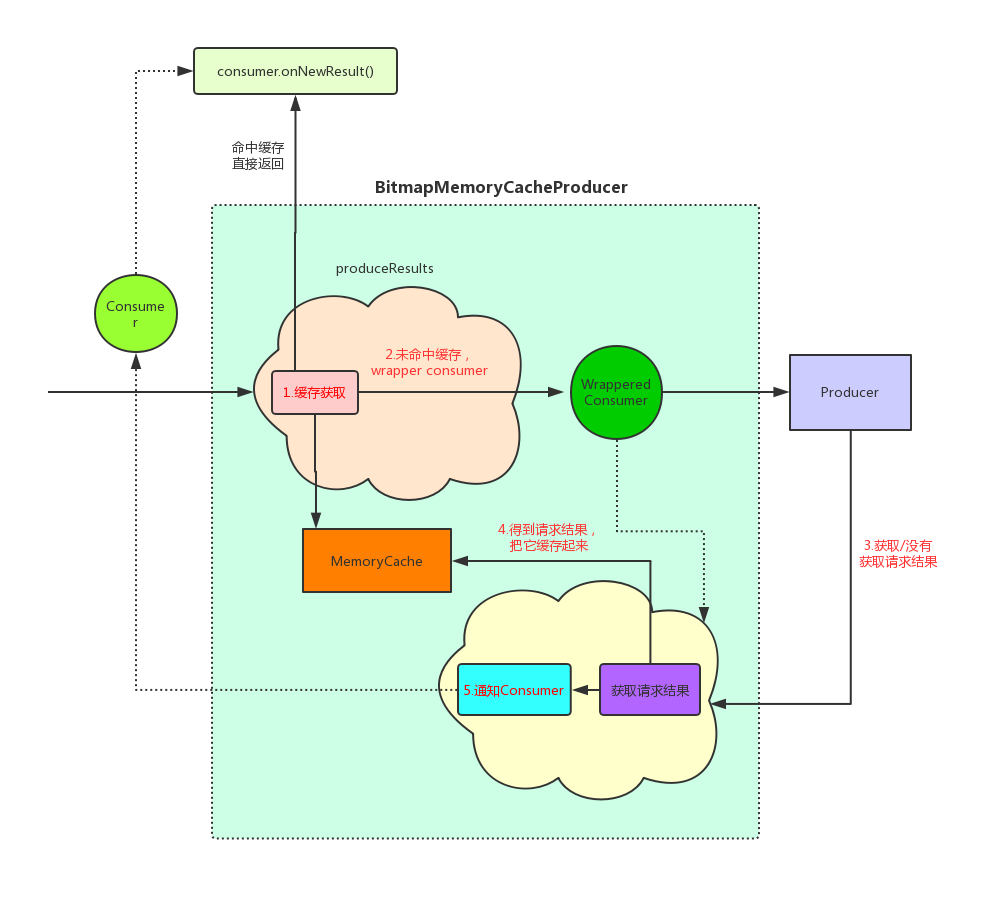
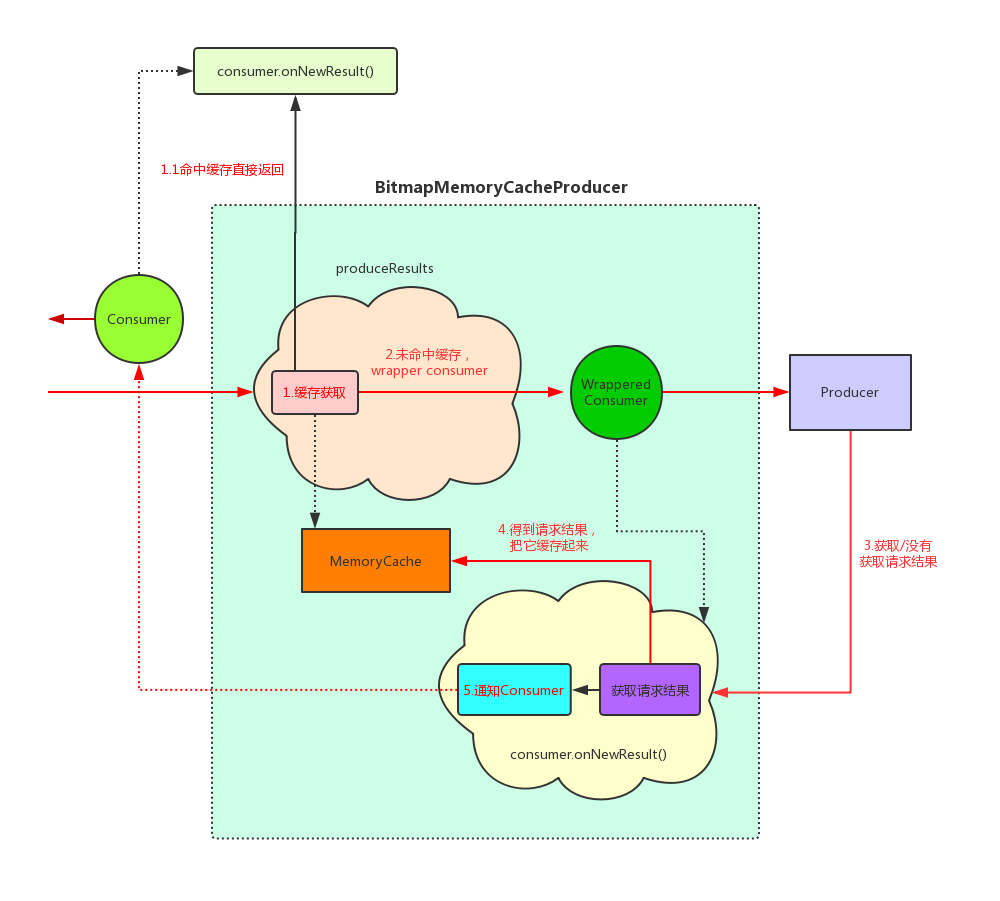
Fresco缓存架构分析 草稿

diff --git a/Fresco源码分析/Fresco缓存架构分析.md b/Fresco源码分析/Fresco缓存架构分析.md
@@ -4,25 +4,25 @@
 
 ## 引言
 
-我们先来回顾一下上一篇文章中的一幅图:
+先来回顾一下上一篇文章中的一幅图:
 
 ![](picture/NetworkFetchSequence.png)
 
 这张图描述了`Fresco`在第一次加载一张网络图片时所经历的过程，从图中可以看出涉及到缓存的`Producer`共有4个:`BitmapMemroyCacheGetProducer`、`BitmapMemoryCacheProducer`、`EncodedMemoryCacheProducer`和`DiskCacheWriteProducer`。`Fresco`在加载图片时会按照图中**绿色箭头**所示依次经过这四个`缓存Producer`，一旦在某个`Producer`得到图片请求结果，就会按照**蓝色箭头**所示把结果依次回调回来,这里我先简单介绍一下这4个`缓存Producer`的作用:
 
-1. `BitmapMemroyCacheGetProducer`:这个`Producer`会去内存缓存中检查有没命中，如果命中则返回图片请求结果。
-2. `BitmapMemoryCacheProducer`:这个`Producer`会监听其后面的`Producer`的`Result`，并把`Result(CloseableImage)`存入缓存。
-3. `EncodedMemoryCacheProducer`:它也是一个内存缓存，不过它缓存的是未解码的图片，即字节流。
-4. `DiskCacheWriteProducer`:顾名思义，它负责把图片缓存到磁盘，它缓存的也是未解码的图片。
+1. `BitmapMemroyCacheGetProducer`: 这个`Producer`会去内存缓存中检查有没命中缓存，如果命中则返回图片请求结果。
+2. `BitmapMemoryCacheProducer`: 这个`Producer`会监听其后面的`Producer`的`Result`，并把`Result(CloseableImage)`存入缓存。
+3. `EncodedMemoryCacheProducer`: 它也是一个内存缓存，不过它缓存的是未解码的图片，即图片原始字节。
+4. `DiskCacheWriteProducer`: 顾名思义，它负责把图片缓存到磁盘，它缓存的也是未解码的图片。
 
 
-## 解码图片与未解码图片
+### 解码图片与未解码图片
 
-在`Fresco`中，`CloseableImage`就是已解码的图片，而`EncodeImage`就是为解码的图片。
+在`Fresco`中可以简单的理解 :`CloseableImage`为解码的图片，而`EncodeImage`是未解码的图片。
 
-### CloseableImage
+#### CloseableImage
 
-`CloseableImage`是一个接口，我们最常接触到的它的实现是`CloseableStaticBitmap`:
+`CloseableImage`是一个接口，最常接触到的它的实现是`CloseableStaticBitmap`:
 
 >CloseableStaticBitmap.java
 ```
@@ -34,7 +34,7 @@ public class CloseableStaticBitmap extends CloseableBitmap {
 
 即可以把`CloseableStaticBitmap`理解为`Bitmap`的封装。
 
-### EncodeImage
+#### EncodeImage
 
 它内部其实是直接封装了`图片的字节/图片的文件字节流`:
 
@@ -42,21 +42,21 @@ public class CloseableStaticBitmap extends CloseableBitmap {
 ```
 public class EncodedImage implements Closeable {
     private final @Nullable CloseableReference<PooledByteBuffer> mPooledByteBufferRef;  //实际上未解码的图片的字节
-    private final @Nullable Supplier<FileInputStream> mInputStreamSupplier;  //直接缓存一个文件字节流
+    private final @Nullable Supplier<FileInputStream> mInputStreamSupplier;  //直接缓存一个文件字节流, 我猜测用于渐进式jpeg图片加载等场景
 }
 ```
 
+接下来，我们来仔细看一样上面所列的4个缓存:
+
 ## Bitmap内存缓存 : BitmapMemoryCacheProducer
 
-`BitmapMemroyCacheGetProducer`派生自`BitmapMemoryCacheProducer`,与`BitmapMemoryCacheProducer`的不同就是**只读不写**而已,比较简单，就不看了。
-
-`BitmapMemoryCacheProducer`的缓存逻辑很简单:
+`BitmapMemroyCacheGetProducer`派生自`BitmapMemoryCacheProducer`,与`BitmapMemoryCacheProducer`的不同就是**只读不写**而已, 比较简单就不看了, 不过`BitmapMemoryCacheProducer`的缓存逻辑很简单:
 
 >BitmapMemoryCacheProducer.java
 ```
 public class BitmapMemoryCacheProducer implements Producer<CloseableReference<CloseableImage>> {
 
-    private final MemoryCache<CacheKey, CloseableImage> mMemoryCache;
+    private final MemoryCache<CacheKey, CloseableImage> mMemoryCache; //图片缓存的实现
 
     @Override
     public void produceResults(Consumer<CloseableReference<CloseableImage>> consumer...){
@@ -94,14 +94,283 @@ public class BitmapMemoryCacheProducer implements Producer<CloseableReference<Cl
 }
 ```
 
-流程图如下(后面两个缓存的流程与它基本相同，因此对于缓存整体流程只画这一次):
+它的主要流程图如下(**后面两个缓存的流程与它基本相同，因此对于缓存整体流程只画这一次**):
 
 ![](picture/BitmapMemoryCacheProducer工作流.png)
 
-**图中红色的字体是正常网络加载图片的步骤**，这里我们来细看一下`MemoryCache`的实现:
+**图中红色箭头和字体是正常网络加载图片的步骤**，这里我们来细看一下`MemoryCache`的实现:
 
 ### 内存缓存的实现 : MemoryCache
 
-`MemoryCache`是一个接口，在这里它的对应实现是`CountingMemoryCache`，
+`MemoryCache`是一个接口，在这里它的对应实现是`CountingMemoryCache`, 看一下这个类的构造函数:
+
+>CountingMemoryCache.java
+```
+public class CountingMemoryCache<K, V> implements MemoryCache<K, V>, MemoryTrimmable {
+
+    //缓存的集合其实就是一个map，不过这个map使用 Lru 算法
+    final CountingLruMap<K, Entry<K, V>> mExclusiveEntries;  
+    final CountingLruMap<K, Entry<K, V>> mCachedEntries; 
+
+    public CountingMemoryCache(ValueDescriptor<V> valueDescriptor,CacheTrimStrategy cacheTrimStrategy,Supplier<MemoryCacheParams> memoryCacheParamsSupplier) {
+        mValueDescriptor = valueDescriptor;// 用来估算当前缓存实体的大小
+        mExclusiveEntries = new CountingLruMap<>(wrapValueDescriptor(valueDescriptor)); // 主要存放没有被引用的对象，它的所有元素一定在 mCachedEntries 集合中存在
+        mCachedEntries = new CountingLruMap<>(wrapValueDescriptor(valueDescriptor));  // 主要缓存集合
+        mCacheTrimStrategy = cacheTrimStrategy; // 当 trim 缓存的如何trim (简单点说就是trim ratio)
+        mMemoryCacheParams = mMemoryCacheParamsSupplier.get();  //  通过 ImagePipelineConfig 来配置的缓存参数
+    }
+    ...
+}
+```
+
+通过构造函数可以知道`CountingMemoryCache`一共含有两个缓存集合 : `mCachedEntries`是用来存放所有缓存对象的集合，而`mExclusiveEntries`是用来存放当前没有被引用的对象，在`trim`缓存是，主要是`trim`掉这个缓存集合的中的对象。`CountingMemoryCache`的缓存逻辑也是主要围绕这两个集合展开的。接下来看一下``的`cache`和`get`的方法，来简单理解它的缓存逻辑。
+
+#### CountingMemoryCache.cache()
+
+```
+public @Nullable CloseableReference<V> cache(K key, CloseableReference<V> valueRef, EntryStateObserver<K> observer) {
+
+    Entry<K, V> oldExclusive;
+    CloseableReference<V> oldRefToClose = null;
+    CloseableReference<V> clientRef = null;
+
+    synchronized (this) {
+        oldExclusive = mExclusiveEntries.remove(key);   //从没有引用的缓存集合中清除
+        Entry<K, V> oldEntry = mCachedEntries.remove(key); //从主缓存集合中移除
+        if (oldEntry != null) {
+            makeOrphan(oldEntry);
+            oldRefToClose = referenceToClose(oldEntry);
+        }
+
+        if (canCacheNewValue(valueRef.get())) {  //会判断是否到达了当前缓存的最大值
+            Entry<K, V> newEntry = Entry.of(key, valueRef, observer); // 构造一个缓存实体(Entry)
+            mCachedEntries.put(key, newEntry);   //缓存
+            clientRef = newClientReference(newEntry);
+        }
+    }
+
+    CloseableReference.closeSafely(oldRefToClose);    //可能会调用到 release 方法，
+    ...
+
+    return clientRef;
+}
+```
+
+上面代码我做了比较详细的注释。简单的讲就是**把这个对象放入到`mCachedEntries`集合中，如果原来就已经缓存了这个对象，那么就要把它先从`mCachedEntries`和`mExclusiveEntries`集合中移除。**
+
+##### Fresco的默认内存缓存大小
+
+`canCacheNewValue`用来判断当前缓存是否已经达到了最大值，那`Fresco`内存缓存的最大值是多少呢？我们可以通过`ImagePipelineConfig`来配置，如果没有配置的话默认配置是:`DefaultBitmapMemoryCacheParamsSupplier`:
+
+>DefaultBitmapMemoryCacheParamsSupplier.java
+```
+public class DefaultBitmapMemoryCacheParamsSupplier implements Supplier<MemoryCacheParams> {
+    ...
+
+    private int getMaxCacheSize() {
+        final int maxMemory = Math.min(mActivityManager.getMemoryClass() * ByteConstants.MB, Integer.MAX_VALUE);
+        if (maxMemory < 32 * ByteConstants.MB) {
+            return 4 * ByteConstants.MB;
+        } else if (maxMemory < 64 * ByteConstants.MB) {
+            return 6 * ByteConstants.MB;
+        } else {
+            if (Build.VERSION.SDK_INT < Build.VERSION_CODES.HONEYCOMB) {
+                return 8 * ByteConstants.MB;
+            } else {
+                return maxMemory / 4;
+            }
+        }
+    }
+}
+```
+
+即`Fresco`的默认缓存大小是根据当前应用的运行内存来决定的，对于应用运行内存达到64MB以上的手机，`Fresco`的默认缓存大小是`maxMemory / 4`
+
+#### CountingMemoryCache.get()
+
+缓存获取的逻辑也很简单:
+
+>CountingMemoryCache.java
+```
+    public CloseableReference<V> get(final K key) {
+    Entry<K, V> oldExclusive;
+        CloseableReference<V> clientRef = null;
+        synchronized (this) {
+            oldExclusive = mExclusiveEntries.remove(key);
+            Entry<K, V> entry = mCachedEntries.get(key);
+            if (entry != null) {
+                clientRef = newClientReference(entry);
+            }
+        }
+        maybeNotifyExclusiveEntryRemoval(oldExclusive);
+        maybeUpdateCacheParams();
+        maybeEvictEntries();
+        return clientRef;
+    }
+```
+
+即从`mCachedEntries集合`中获取，如果`mExclusiveEntries集合`中存在的话就移除。
+
+#### CountingMemoryCache.get()
+
+当内存缓存达到峰值或系统内存不足时就需要对当前的内存缓存做`trim`操作, `trim`时是基于`Lru`算法的，我们看一下它的具体逻辑:
+
+```
+  public void trim(MemoryTrimType trimType) {
+    ArrayList<Entry<K, V>> oldEntries;
+    //根据当前的应用状态来确定trim ratio。 应用状态是指: 应用处于前台、后台等等
+    final double trimRatio = mCacheTrimStrategy.getTrimRatio(trimType);
+    ...
+    int targetCacheSize = (int) (mCachedEntries.getSizeInBytes() * (1 - trimRatio));  // trim到当前缓存的多少
+    int targetEvictionQueueSize = Math.max(0, targetCacheSize - getInUseSizeInBytes());  // 到底能trim多大
+    oldEntries = trimExclusivelyOwnedEntries(Integer.MAX_VALUE, targetEvictionQueueSize); //trim  mExclusiveEntries集合 集合中的对象
+    makeOrphans(oldEntries);
+    ...
+  }
+```
+
+trim操作的主要步骤是:
+
+1. 根据当前应用的状态决定`trim ratio`。
+2. 根据`trim ratio`来算出经过trim后缓存的大小
+3. 根据`mExclusiveEntries`集合的大小来决定到底能trim多少 (能trim的最大就是mExclusiveEntries.size)
+4. 对`mExclusiveEntries`集合做`trim`操作，即移除其中的元素。
+
+即`trim`时最大能`trim`掉的大小是`mExclusiveEntries`集合的大小。所以如果当前应用存在内存泄漏，导致`mExclusiveEntries`中的元素很少，那么`trim`操作是没有效果的。
 
 
+##  Bitmap编码内存缓存 : EncodedMemoryCacheProducer
+
+这个缓存的工作逻辑和`BitmapMemoryCacheProducer`相同，不同的是它缓存的对象:
+
+```
+public class EncodedMemoryCacheProducer implements Producer<EncodedImage> {
+
+    private final MemoryCache<CacheKey, PooledByteBuffer> mMemoryCache; 
+    ...
+}
+```
+
+即它缓存的是`PooledByteBuffer`, 它是什么东西呢? 它牵扯到`Fresco编码图片`的内存管理，这些内容我会单开一篇文章来讲一下。这里就先不说了。`PooledByteBuffer`你可以简单的把它当成一个字节数组。
+
+## Bitmap磁盘缓存 : DiskCacheWriteProducer
+
+它是`Fresco`图片磁盘缓存的逻辑管理者，整个缓存逻辑和`BitmapMemoryCacheProducer`差不多，我们主要看一下它的磁盘存储逻辑(怎么存):
+
+```
+public class DiskCacheWriteProducer implements Producer<EncodedImage> {
+
+    private final BufferedDiskCache mDefaultBufferedDiskCache; /
+    ...
+    private static class DiskCacheWriteConsumer extends DelegatingConsumer<EncodedImage, EncodedImage> {
+        @Override
+        public void onNewResultImpl(EncodedImage newResult, @Status int status) {
+            ...
+            mDefaultBufferedDiskCache.put(cacheKey, newResult);
+        }
+    }
+}
+```
+
+### BufferedDiskCache
+
+先来看一下类的组成结构:
+
+```
+public class BufferedDiskCache {
+    private final FileCache mFileCache;  // 文件存储的实现
+    private final Executor mWriteExecutor; //存储文件时的线程
+    private final StagingArea mStagingArea; 
+}
+```
+
+- FileCache : 将`EncodeImage`保存到磁盘存储实现。
+- Executor : 指定文件保存操作所运行的线程。
+- StagingArea: 类似于git中的stage概念,它是一个map,用于保存当前正在进行磁盘缓存操作。
+
+#### 将图片保存至磁盘 : BufferedDiskCache.put()
+
+这个方法主要负责往磁盘缓存一张图片:
+
+```
+public void put(final CacheKey key, EncodedImage encodedImage) {
+    ..
+    mStagingArea.put(key, encodedImage); //把这次缓存操作放到暂存区
+    ...
+    final EncodedImage finalEncodedImage = EncodedImage.cloneOrNull(encodedImage);
+    mWriteExecutor.execute( //开启写入线程
+        new Runnable() {
+            @Override
+            public void run() {
+            try {
+                writeToDiskCache(key, finalEncodedImage); //写入到磁盘
+            } finally {
+                mStagingArea.remove(key, finalEncodedImage); //从操作暂存区中移除这次操作
+                EncodedImage.closeSafely(finalEncodedImage);
+            }
+            }
+        });
+    }
+    ...
+}
+```
+
+`writeToDiskCache()`主要调用`mFileCache.insert()`来把图片保存到磁盘:
+
+```
+mFileCache.insert(key, new WriterCallback() {
+        @Override
+        public void write(OutputStream os) throws IOException {
+            mPooledByteStreams.copy(encodedImage.getInputStream(), os); //实际上就是把encodeImage 写入到 os(OutputStream) 中
+        }
+    }
+);
+```
+
+至于`mFileCache.insert()`的具体实现涉及的源码较多，考虑文章篇幅的原因这里我不去具体跟了。简单的总结一下其实现步骤和一些关键点:
+
+##### Step1 :  生成ResourceId
+
+这个`ResourceId`可以简单的理解为文件名，它的生成算法如下:
+
+```
+SecureHashUtil.makeSHA1HashBase64(key.getUriString().getBytes("UTF-8"));  // key就是CacheKey
+```
+
+即`SHA-1` + `Base64`。
+
+##### Step2 : 创建临时文件，并把图片写入到临时文件中
+
+>创建临时文件
+```
+public File createTempFile(File parent) throws IOException {
+    return File.createTempFile(resourceId + ".", TEMP_FILE_EXTENSION, parent);
+}
+```
+
+>把图片写入到这个临时文件中 : DefaultDiskStorage.java
+```
+ public void writeData(WriterCallback callback, Object debugInfo) throws IOException {
+    FileOutputStream fileStream = new FileOutputStream(mTemporaryFile);
+    ...
+    CountingOutputStream countingStream = new CountingOutputStream(fileStream);
+    callback.write(countingStream);
+    countingStream.flush();
+```
+
+这里的`callback(WriterCallback)`就是`mFileCache.insert()`方法传入的那个`callback -> {  mPooledByteStreams.copy(encodedImage.getInputStream(), os); }`
+
+##### Step3 : 把临时文件重命名为resourceId
+
+##### Step4 : 设置好文件的最后修改时间
+
+#### 从磁盘中获取文件 : BufferedDiskCache.get()
+
+读就是写的逆操作，这里不做具体分析了。
+
+
+**欢迎关注我的[Android进阶计划](https://github.com/SusionSuc/AdvancedAndroid)看更多干货**
+
+**欢迎关注我的微信公众号:susion随心**
+
+![](../../picture/微信公众号.jpeg)
